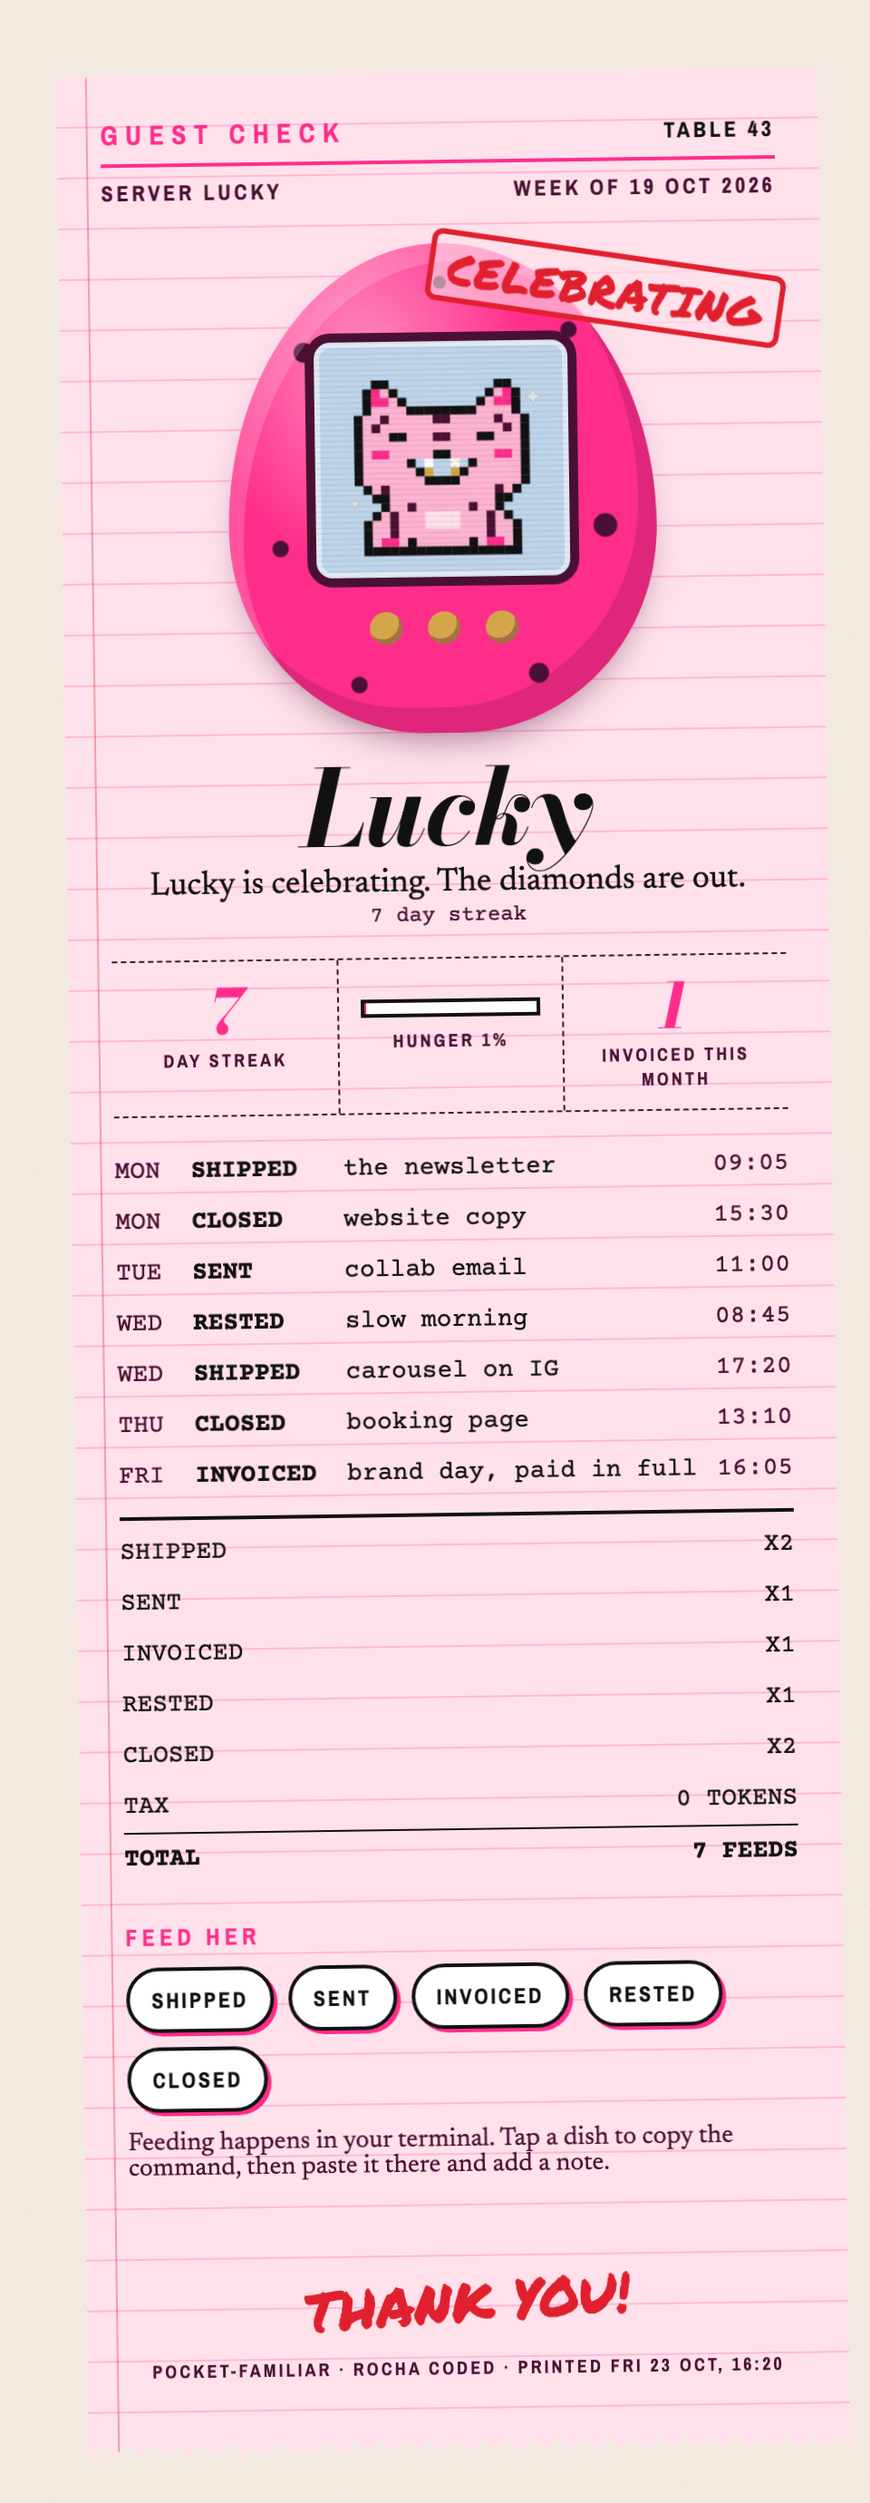
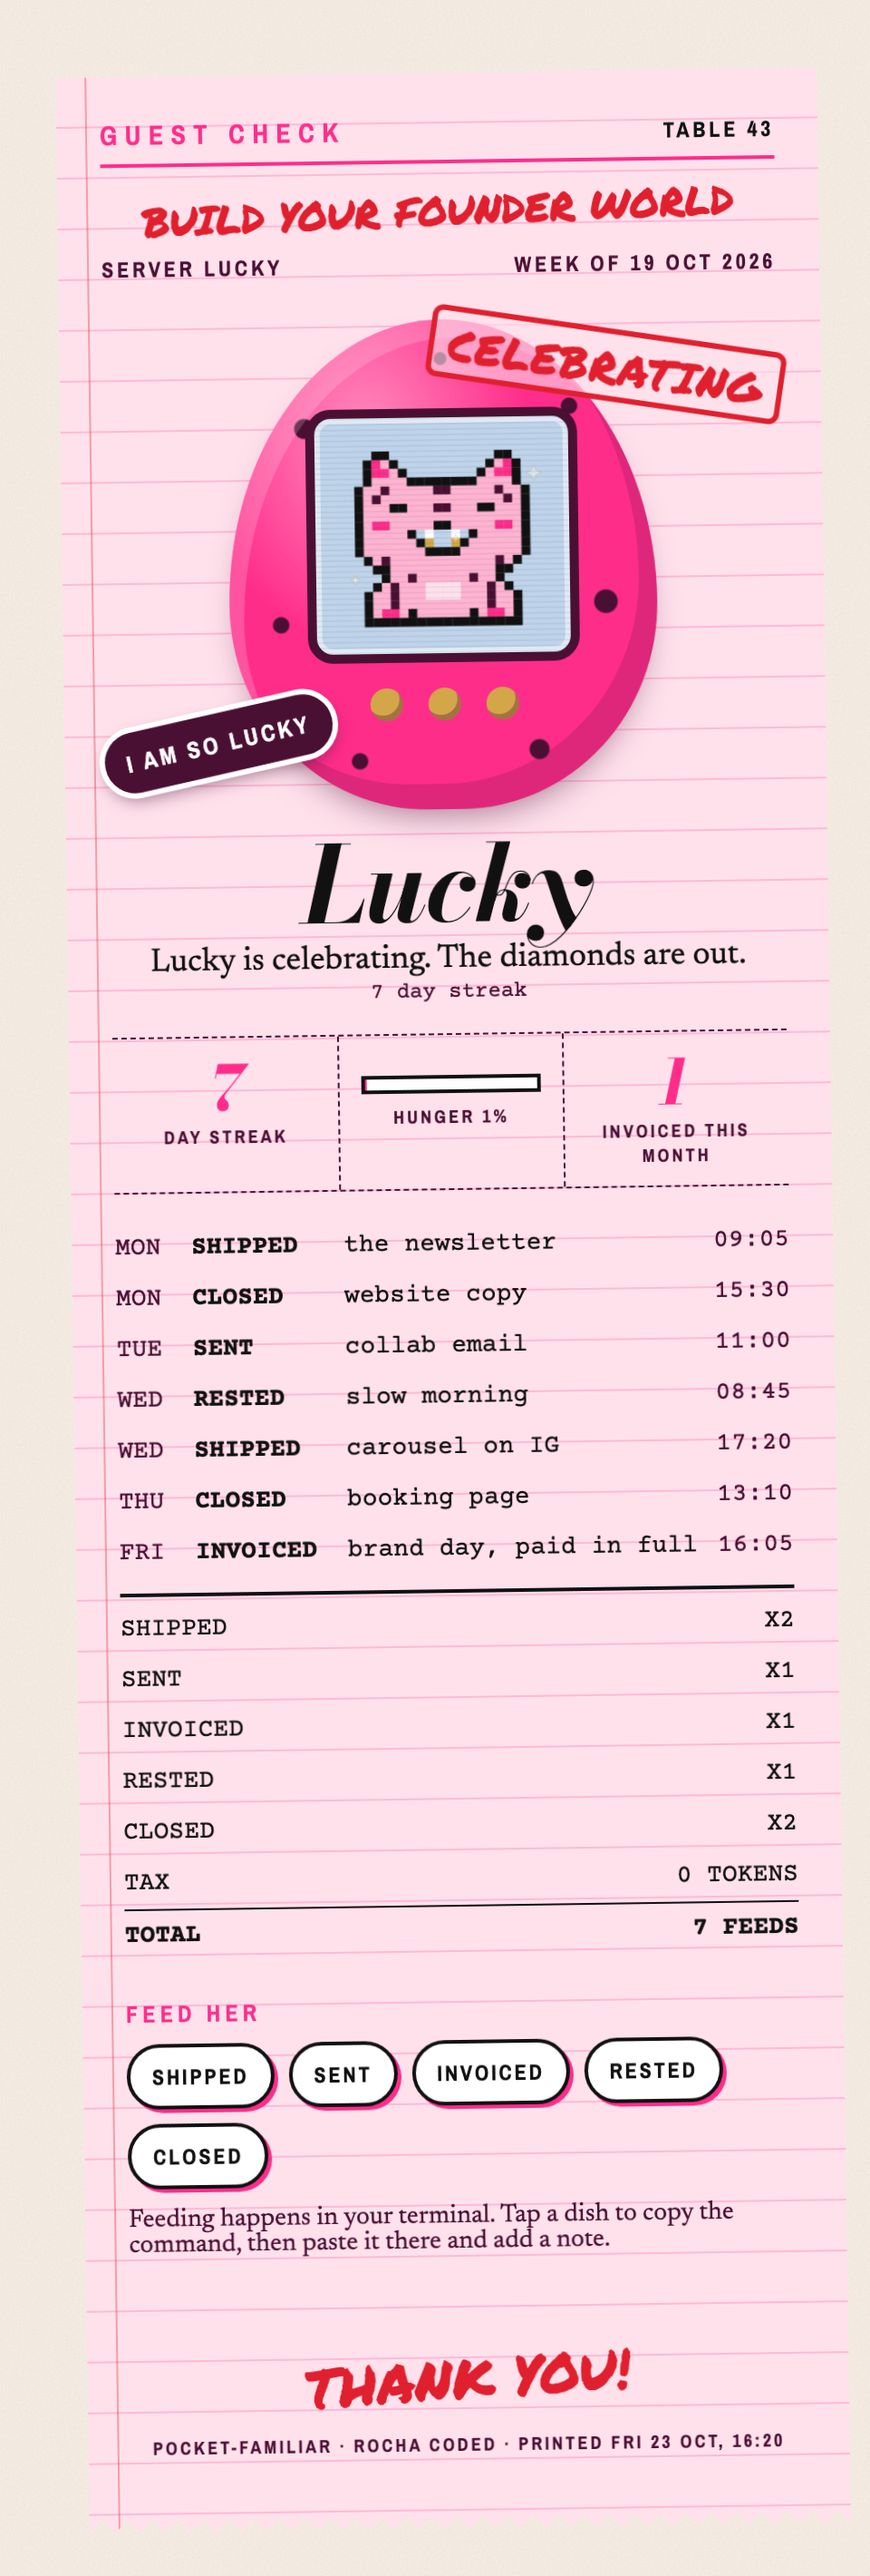
pocket-familiar: her language, shop window footer, refreshed scaffold scripts

Changed region(s): [[0.0938, 0.0312, 0.9375, 0.9659]]

diff --git a/examples/familiar-card.html b/examples/familiar-card.html
@@ -84,6 +84,13 @@
     border: 3px solid var(--red); border-radius: 6px; padding: 6px 8px 4px; background: rgba(255,225,236,.6);
     text-transform: uppercase; letter-spacing: .02em;
   }
+  .slogan { font-family: var(--marker); color: var(--red); font-size: 22px; text-align: center; margin: 10px 0 2px; transform: rotate(-1.5deg); }
+  .sticker {
+    position: absolute; left: -6px; bottom: 18px; transform: rotate(-12deg);
+    font-family: var(--label); font-weight: 700; letter-spacing: .14em; font-size: 13px; color: var(--white);
+    background: var(--plum); border: 3px solid var(--white); border-radius: 999px; padding: 8px 12px;
+    box-shadow: 0 4px 10px -4px rgba(74,16,51,.6);
+  }
   h1 { font-family: var(--serif); font-style: italic; font-weight: 700; font-size: 58px; line-height: 1; margin: 12px 0 2px; color: var(--ink); text-align: center; letter-spacing: -.01em; }
   .line { text-align: center; font-size: 18px; margin: 4px 0 2px; }
   .why { text-align: center; font-family: var(--mono); font-size: 12px; color: var(--plum); margin: 0 0 16px; }
@@ -128,6 +135,7 @@
 <body>
 <main class="check" aria-label="Your familiar">
   <div class="head"><span class="label title">Guest Check</span><span class="label" id="table"></span></div>
+  <div class="slogan">BUILD YOUR FOUNDER WORLD</div>
   <div class="sub"><span class="label" id="server"></span><span class="label" id="week"></span></div>
 
   <div class="stage">
@@ -136,6 +144,7 @@
       <div class="buttons" aria-hidden="true"><span></span><span></span><span></span></div>
     </div>
     <div class="stamp" id="stamp"></div>
+    <div class="sticker" id="sticker" hidden>I AM SO LUCKY</div>
   </div>
 
   <h1 id="name"></h1>
@@ -231,6 +240,7 @@ $("table").textContent = "Table " + d.table;
 $("server").textContent = "Server " + d.name;
 $("week").textContent = d.week ? "Week of " + d.week : "";
 $("stamp").textContent = d.state;
+$("sticker").hidden = d.state !== "celebrating";
 $("name").textContent = d.name;
 $("line").textContent = d.line;
 $("why").textContent = d.reason;

diff --git a/templates/familiar.html b/templates/familiar.html
@@ -84,6 +84,13 @@
     border: 3px solid var(--red); border-radius: 6px; padding: 6px 8px 4px; background: rgba(255,225,236,.6);
     text-transform: uppercase; letter-spacing: .02em;
   }
+  .slogan { font-family: var(--marker); color: var(--red); font-size: 22px; text-align: center; margin: 10px 0 2px; transform: rotate(-1.5deg); }
+  .sticker {
+    position: absolute; left: -6px; bottom: 18px; transform: rotate(-12deg);
+    font-family: var(--label); font-weight: 700; letter-spacing: .14em; font-size: 13px; color: var(--white);
+    background: var(--plum); border: 3px solid var(--white); border-radius: 999px; padding: 8px 12px;
+    box-shadow: 0 4px 10px -4px rgba(74,16,51,.6);
+  }
   h1 { font-family: var(--serif); font-style: italic; font-weight: 700; font-size: 58px; line-height: 1; margin: 12px 0 2px; color: var(--ink); text-align: center; letter-spacing: -.01em; }
   .line { text-align: center; font-size: 18px; margin: 4px 0 2px; }
   .why { text-align: center; font-family: var(--mono); font-size: 12px; color: var(--plum); margin: 0 0 16px; }
@@ -128,6 +135,7 @@
 <body>
 <main class="check" aria-label="Your familiar">
   <div class="head"><span class="label title">Guest Check</span><span class="label" id="table"></span></div>
+  <div class="slogan">BUILD YOUR FOUNDER WORLD</div>
   <div class="sub"><span class="label" id="server"></span><span class="label" id="week"></span></div>
 
   <div class="stage">
@@ -136,6 +144,7 @@
       <div class="buttons" aria-hidden="true"><span></span><span></span><span></span></div>
     </div>
     <div class="stamp" id="stamp"></div>
+    <div class="sticker" id="sticker" hidden>I AM SO LUCKY</div>
   </div>
 
   <h1 id="name"></h1>
@@ -231,6 +240,7 @@ $("table").textContent = "Table " + d.table;
 $("server").textContent = "Server " + d.name;
 $("week").textContent = d.week ? "Week of " + d.week : "";
 $("stamp").textContent = d.state;
+$("sticker").hidden = d.state !== "celebrating";
 $("name").textContent = d.name;
 $("line").textContent = d.line;
 $("why").textContent = d.reason;

diff --git a/README.md b/README.md
@@ -116,18 +116,22 @@ An open item is a markdown table row or a `- [ ]` line with a date in it. Struck
 
 Her memories live in `~/.familiar` on your computer. Nothing is sent anywhere.
 
-## Made by
-
-[Rocha](https://thrivingera.com)
-Brand Alchemist & AI Architect
-Author of Brand Alchemy in the Thriving Era
-Creator of [Conscious Founder OS](https://founders.thrivingera.com)
-Founder, Thriving Era Studio
-
-Instagram [@rocheverse](https://instagram.com/rocheverse) · Substack [rochastone.substack.com](https://rochastone.substack.com)
-
 Not affiliated with any other terminal pet or familiar project.
 
 ## Licence
 
 MIT. See [LICENSE](LICENSE).
+
+## Made by Rocha
+
+Rocha \
+Brand Alchemist & AI Architect \
+Author of *Brand Alchemy in the Thriving Era* \
+Creator of [Conscious Founder OS](https://founders.thrivingera.com) \
+Founder, [Thriving Era Studio](https://thrivingera.com)
+
+I take female founders AI native in 7 days, and I build what they need next. \
+Start with the audit: [thrivingera.com/audit](https://thrivingera.com/audit). \
+Or book an exploratory call: [calendly.com/rochelle-thrivingera/exploratory-call](https://calendly.com/rochelle-thrivingera/exploratory-call). It is where we decide if we work together.
+
+[Instagram @rocheverse](https://instagram.com/rocheverse) · [Substack](https://rochastone.substack.com) · [LinkedIn](https://www.linkedin.com/in/rochellelivingstonecosmic) · [More free tools](https://thrivingera.com/free) · [All tools on GitHub](https://github.com/RochaStone)
